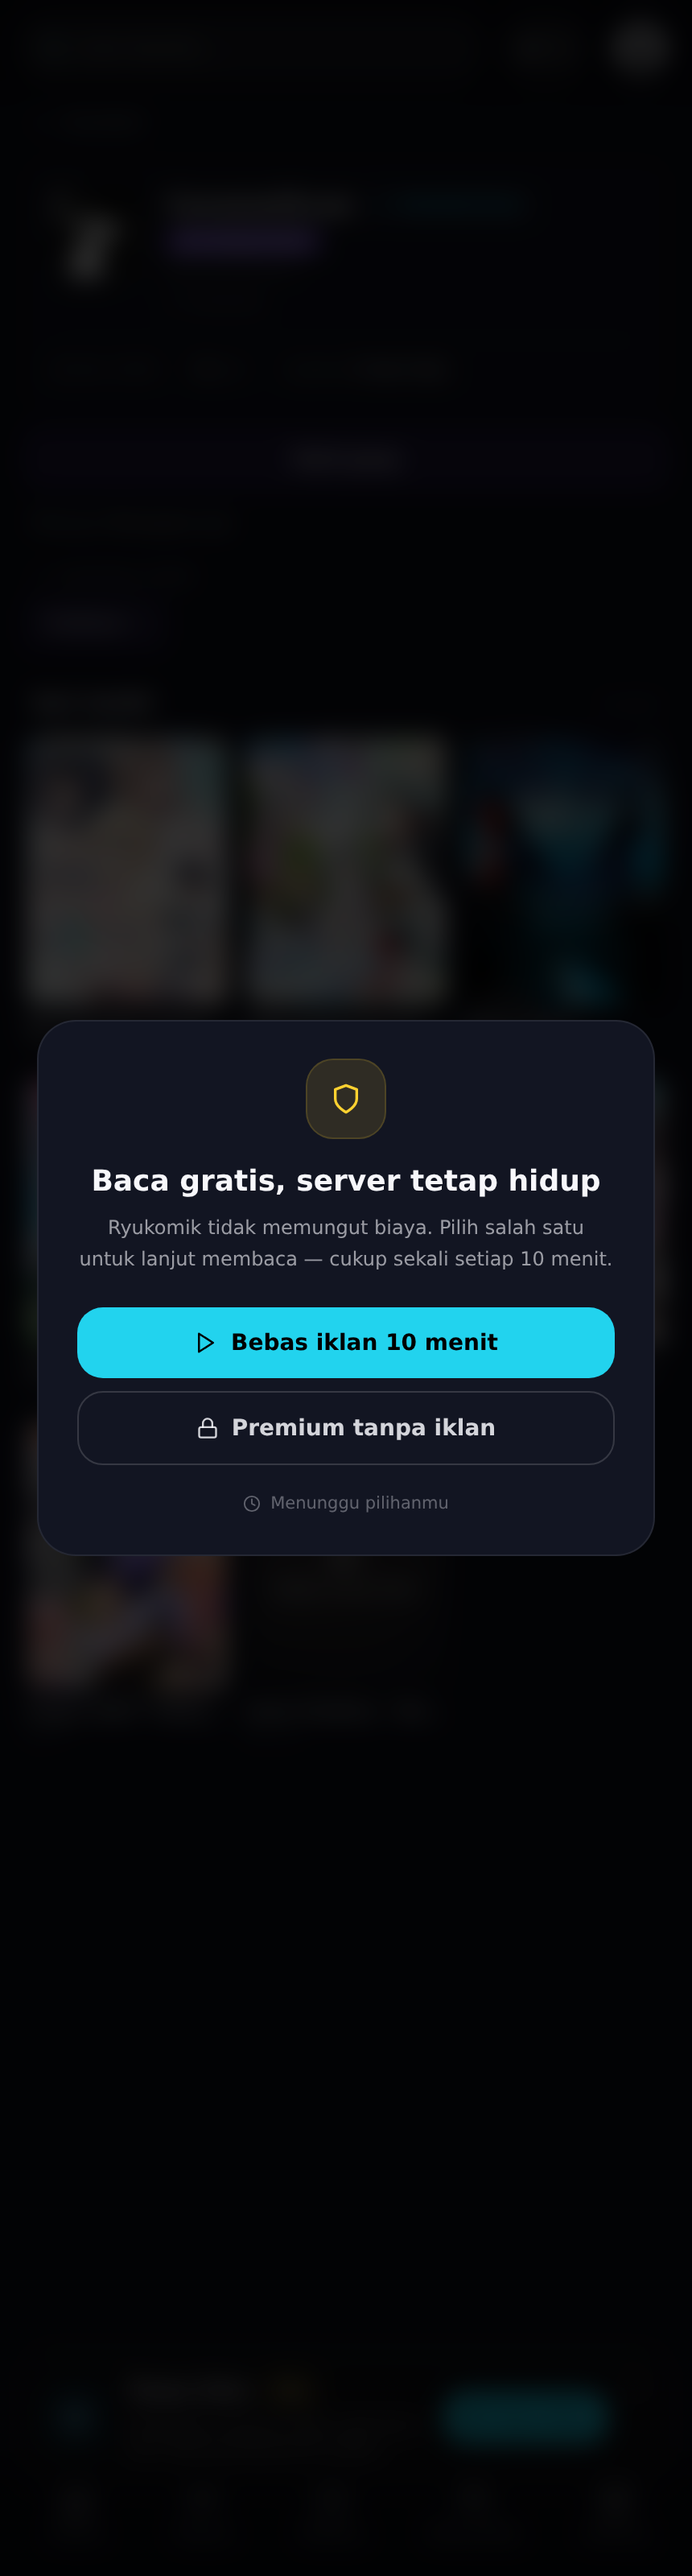
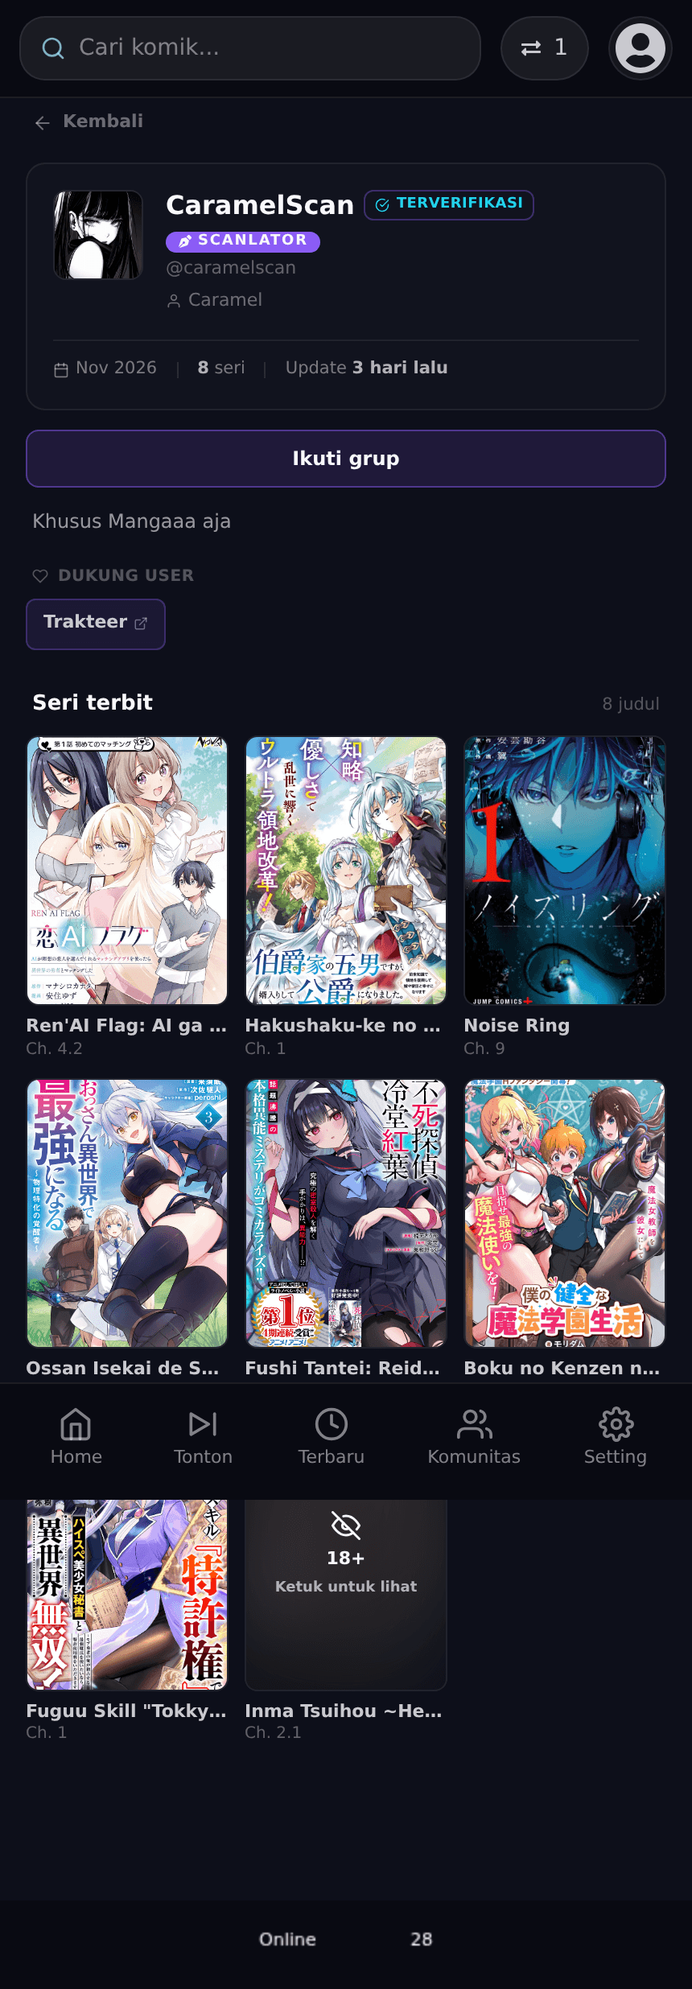
polish(scanlator): tautan panduan di ujung tab + screenshot bebas iklan
- Tombol Panduan pindah ke baris tab, tepat setelah tab Profil (Tabs dapat
  prop trailing), tidak lagi di baris identitas.
- Padding atas shell 64px -> 80px supaya konten tidak menempel header.
- Screenshot dokumen diambil ulang lewat CDP dengan localStorage diisi lebih
  dulu sehingga modal gerbang iklan tidak muncul; ukuran turun dari 4,2 MB
  ke 52/362/62 KB. Nama file diberi -v2 karena cache edge immutable.

diff --git a/src/app/scanlator/ScanlatorStudio.tsx b/src/app/scanlator/ScanlatorStudio.tsx
@@ -431,7 +431,7 @@ export default function ScanlatorStudio() {
   };
 
   const shell = (children: React.ReactNode) => (
-    <main className="min-h-screen bg-[var(--surface-0)] px-4 pb-20 pt-16 text-white">
+    <main className="min-h-screen bg-[var(--surface-0)] px-4 pb-20 pt-20 text-white">
       <div className="mx-auto w-full max-w-2xl">{children}</div>
     </main>
   );
@@ -716,15 +716,26 @@ export default function ScanlatorStudio() {
             {profile.warnings > 0 && <><span className="text-white/15">·</span>{profile.warnings} SP</>}
           </p>
         </div>
-        <Link href="/scanlator/panduan" aria-label="Panduan scanlator" className="flex h-9 shrink-0 items-center gap-1.5 rounded-lg border border-white/[.08] px-2.5 text-[11px] font-bold text-white/45 transition-colors hover:text-white">
-          <FiBookOpen size={13} /> <span className="hidden sm:inline">Panduan</span>
-        </Link>
         <Link href={`/scanlator/${profile.handle}`} aria-label="Halaman publik" className="flex h-9 w-9 shrink-0 items-center justify-center rounded-lg border border-white/[.08] text-white/40 transition-colors hover:text-white">
           <FiArrowRight size={15} />
         </Link>
       </div>
 
-      <div className="-mx-4"><Tabs tabs={TABS} active={tab} onChange={(id) => { setTab(id); setError(""); setNotice(""); }} /></div>
+      <div className="-mx-4">
+        <Tabs
+          tabs={TABS}
+          active={tab}
+          onChange={(id) => { setTab(id); setError(""); setNotice(""); }}
+          trailing={
+            <Link
+              href="/scanlator/panduan"
+              className="ml-auto -mb-px flex items-center gap-1 whitespace-nowrap border-b-2 border-transparent py-3 text-[12px] font-bold text-[var(--accent-2)] hover:text-white"
+            >
+              <FiBookOpen size={12} /> Panduan
+            </Link>
+          }
+        />
+      </div>
 
       {(notice || error) && (
         <p className={`mt-3 rounded-lg px-3 py-2 text-[11px] font-semibold ${error ? "bg-rose-500/10 text-rose-200" : "bg-emerald-500/10 text-emerald-200"}`}>

diff --git a/src/app/scanlator/panduan/page.tsx b/src/app/scanlator/panduan/page.tsx
@@ -187,7 +187,7 @@ export default function PanduanScanlatorPage() {
           <li className="flex gap-2"><span className="text-white/30">4.</span> Tunggu maksimal 1×24 jam — status berubah jadi “Akun Translation aktif”</li>
         </ol>
         <Screenshot
-          src="/docs/scanlator/01-daftar.png"
+          src="/docs/scanlator/01-daftar-v2.png"
           alt="Halaman pengajuan akun Translation di Ryukomik"
           caption="Halaman pengajuan. Login Google dulu, lalu formulir terbuka."
         />
@@ -351,7 +351,7 @@ export default function PanduanScanlatorPage() {
           tidak disentuh.
         </p>
         <Screenshot
-          src="/docs/scanlator/03-direktori.png"
+          src="/docs/scanlator/03-direktori-v2.png"
           alt="Direktori scanlator Ryukomik"
           caption="Profil tim kamu muncul di direktori scanlator setelah akun aktif."
           height={360}
@@ -383,9 +383,9 @@ export default function PanduanScanlatorPage() {
           kalau kamu mengisinya.
         </p>
         <Screenshot
-          src="/docs/scanlator/02-profil.png"
+          src="/docs/scanlator/02-profil-v2.png"
           alt="Contoh halaman profil publik scanlator"
-          caption="Contoh halaman publik: daftar seri, jumlah chapter, dan info tim."
+          caption="Contoh halaman publik: daftar seri, jumlah chapter, dan info tim. Seri bertanda 18+ tetap diblur sampai diketuk."
           height={460}
         />
       </section>

diff --git a/src/components/scanlator/ui.tsx b/src/components/scanlator/ui.tsx
@@ -29,8 +29,14 @@ export function PanelHead({ title, desc, right }: { title: string; desc?: string
 }
 
 export function Tabs<T extends string>({
-  tabs, active, onChange,
-}: { tabs: Array<{ id: T; label: string }>; active: T; onChange: (id: T) => void }) {
+  tabs, active, onChange, trailing,
+}: {
+  tabs: Array<{ id: T; label: string }>;
+  active: T;
+  onChange: (id: T) => void;
+  /** Elemen tambahan di ujung kanan tab (mis. tautan panduan). */
+  trailing?: ReactNode;
+}) {
   return (
     <div className="overflow-x-auto border-b border-white/[.07] [scrollbar-width:none] [&::-webkit-scrollbar]:hidden">
       <div className="flex min-w-max gap-5 px-4">
@@ -46,6 +52,7 @@ export function Tabs<T extends string>({
             {t.label}
           </button>
         ))}
+        {trailing}
       </div>
     </div>
   );
